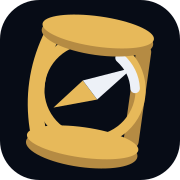
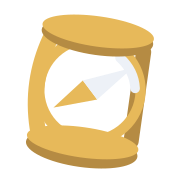
Update Site source

diff --git a/public/brand/icons.html b/public/brand/icons.html
@@ -1,11 +1,11 @@
 <!doctype html>
-<html lang="fr"><head><meta charset="utf-8"><meta name="viewport" content="width=device-width, initial-scale=1"><meta name="theme-color" content="#0b1120"><link rel="icon" href="/favicon.svg?v=4" type="image/svg+xml"><title>Grand Line — Les emblèmes du wiki</title>
+<html lang="fr"><head><meta charset="utf-8"><meta name="viewport" content="width=device-width, initial-scale=1"><meta name="theme-color" content="#0b1120"><link rel="icon" href="/favicon.svg?v=5" type="image/svg+xml"><title>Grand Line — Les emblèmes du wiki</title>
 <style>
 :root{color-scheme:dark;font-family:"Segoe UI",sans-serif;--bg:#0b1120;--surface:#121c2d;--line:#2c3d57;--gold:#e7b95a;--text:#edf1f7;--muted:#a6b5cb}*{box-sizing:border-box}body{margin:0;background:var(--bg);color:var(--text)}a{color:inherit;text-decoration:none}a:focus-visible{outline:2px solid var(--gold);outline-offset:5px}main{max-width:1160px;margin:auto;padding:36px 32px 30px}header{display:flex;align-items:center;justify-content:space-between;gap:20px;margin-bottom:34px}.eyebrow{margin:0;color:var(--gold);font:10px Consolas,monospace;letter-spacing:.16em;text-transform:uppercase}.back{color:var(--muted);font-size:12px}.intro{display:flex;align-items:flex-end;justify-content:space-between;gap:32px;margin-bottom:28px}h1{margin:12px 0 0;font:500 clamp(34px,4vw,49px)/1.1 Georgia,serif;letter-spacing:-.035em}.intro p{max-width:360px;margin:0;color:var(--muted);font-size:13px;line-height:1.8}.grid{display:grid;grid-template-columns:repeat(4,minmax(0,1fr));gap:13px}.card{position:relative;display:grid;justify-items:center;gap:0;min-height:190px;padding:22px 14px 17px;border:1px solid var(--line);border-radius:13px;background:var(--surface);text-align:center}.card:hover{border-color:#8b7344}.art{width:74px;height:74px;object-fit:contain}.card h2{margin:14px 0 5px;font-size:13px;font-weight:600}.card p{margin:0;color:var(--muted);font-size:10px}.mini{position:absolute;top:13px;right:13px;display:grid;width:31px;height:31px;place-items:center;border:1px solid var(--line);border-radius:7px;background:#070c16}.mini img{width:23px;height:23px}.favicon{display:flex;align-items:center;justify-content:space-between;flex-wrap:wrap;gap:22px;margin-top:18px;padding:22px 26px;border:1px solid var(--line);border-radius:13px;background:var(--surface)}.favicon-copy{display:flex;align-items:center;gap:18px}.favicon-copy>img{width:55px;height:55px}.favicon h2{margin:0 0 6px;font:500 23px Georgia,serif}.favicon p{max-width:520px;margin:0;color:var(--muted);font-size:12px;line-height:1.7}.tab{display:flex;align-items:center;gap:9px;min-width:210px;padding:13px 16px;border:1px solid var(--line);border-radius:10px 10px 0 0;background:#070c16;color:var(--muted);font-size:11px}.tab img{width:16px;height:16px}.tab span:last-child{margin-left:auto;font-size:14px}.caption{margin-top:18px;color:var(--muted);font-size:11px;line-height:1.7}.caption a{color:var(--gold)}@media(max-width:800px){main{padding:28px 20px}.intro{align-items:flex-start;flex-direction:column;gap:18px}.grid{grid-template-columns:repeat(3,minmax(0,1fr))}.favicon{padding:20px}.tab{min-width:200px}}@media(max-width:520px){main{padding:24px 16px}.grid{grid-template-columns:repeat(2,minmax(0,1fr));gap:10px}.card{min-height:178px;padding:22px 10px 15px}.art{width:65px;height:65px}.card h2{font-size:12px}.card p{font-size:9px}.mini{top:9px;right:9px;width:27px;height:27px}.mini img{width:20px;height:20px}.favicon-copy{align-items:flex-start;gap:12px}.favicon-copy>img{width:44px;height:44px}}
 </style></head><body><main>
 <header><p class="eyebrow">Grand Line · Identité visuelle</p><a class="back" href="/">Retour au wiki ↗</a></header>
 <section class="intro"><div><p class="eyebrow">Les emblèmes du wiki</p><h1>Un symbole pour chaque escale.</h1></div><p>Douze illustrations assorties au Log Pose, en doré et blanc nacré. Elles accompagnent les rubriques dans le menu, les titres et les raccourcis.</p></section>
 <section class="grid" aria-label="Les douze icônes des rubriques"><a class="card" href="/#accueil"><span class="mini" aria-hidden="true"><img src="./icons/home.svg" alt=""></span><img class="art" src="./icons/home.svg" width="74" height="74" alt="Le chapeau de paille"><h2>Accueil</h2><p>Le chapeau de paille</p></a><a class="card" href="/#page/favorites"><span class="mini" aria-hidden="true"><img src="./icons/favorites.svg" alt=""></span><img class="art" src="./icons/favorites.svg" width="74" height="74" alt="Le médaillon étoilé"><h2>Mes favoris</h2><p>Le médaillon étoilé</p></a><a class="card" href="/#page/map"><span class="mini" aria-hidden="true"><img src="./icons/map.svg" alt=""></span><img class="art" src="./icons/map.svg" width="74" height="74" alt="La carte marine"><h2>Carte du monde</h2><p>La carte marine</p></a><a class="card" href="/#page/guide"><span class="mini" aria-hidden="true"><img src="./icons/guide.svg" alt=""></span><img class="art" src="./icons/guide.svg" width="74" height="74" alt="Le livre de bord"><h2>Épisodes & chapitres</h2><p>Le livre de bord</p></a><a class="card" href="/#page/crews"><span class="mini" aria-hidden="true"><img src="./icons/crews.svg" alt=""></span><img class="art" src="./icons/crews.svg" width="74" height="74" alt="Le pavillon pirate"><h2>Équipages</h2><p>Le pavillon pirate</p></a><a class="card" href="/#page/ships"><span class="mini" aria-hidden="true"><img src="./icons/ships.svg" alt=""></span><img class="art" src="./icons/ships.svg" width="74" height="74" alt="Le navire à voiles"><h2>Bateaux</h2><p>Le navire à voiles</p></a><a class="card" href="/#page/government"><span class="mini" aria-hidden="true"><img src="./icons/government.svg" alt=""></span><img class="art" src="./icons/government.svg" width="74" height="74" alt="La mouette et l’ancre"><h2>Marine & Gouvernement</h2><p>La mouette et l’ancre</p></a><a class="card" href="/#page/blades"><span class="mini" aria-hidden="true"><img src="./icons/blades.svg" alt=""></span><img class="art" src="./icons/blades.svg" width="74" height="74" alt="Les katanas croisés"><h2>Les lames</h2><p>Les katanas croisés</p></a><a class="card" href="/#page/poneglyphs"><span class="mini" aria-hidden="true"><img src="./icons/poneglyphs.svg" alt=""></span><img class="art" src="./icons/poneglyphs.svg" width="74" height="74" alt="La stèle gravée"><h2>Ponéglyphes</h2><p>La stèle gravée</p></a><a class="card" href="/#page/characters"><span class="mini" aria-hidden="true"><img src="./icons/characters.svg" alt=""></span><img class="art" src="./icons/characters.svg" width="74" height="74" alt="L’affiche de recherche"><h2>Personnages</h2><p>L’affiche de recherche</p></a><a class="card" href="/#page/fruits"><span class="mini" aria-hidden="true"><img src="./icons/fruits.svg" alt=""></span><img class="art" src="./icons/fruits.svg" width="74" height="74" alt="Le fruit à spirales"><h2>Fruits du Démon</h2><p>Le fruit à spirales</p></a><a class="card" href="/#page/sources"><span class="mini" aria-hidden="true"><img src="./icons/sources.svg" alt=""></span><img class="art" src="./icons/sources.svg" width="74" height="74" alt="La plume et le parchemin"><h2>Sources & données</h2><p>La plume et le parchemin</p></a></section>
-<section class="favicon" aria-label="Icône de l’onglet"><div class="favicon-copy"><img src="/favicon.svg?v=4" width="55" height="55" alt="Log Pose simplifié"><div><h2>Le cap, même dans l’onglet.</h2><p>Le Log Pose conserve sa silhouette et son aiguille claire, avec un dessin simplifié pour les petites tailles.</p></div></div><div class="tab" aria-label="Aperçu de l’onglet à taille réelle"><img src="/favicon.svg?v=4" width="16" height="16" alt=""><span>Grand Line — Wiki One Piece</span><span aria-hidden="true">×</span></div></section>
+<section class="favicon" aria-label="Icône de l’onglet"><div class="favicon-copy"><img src="/favicon.svg?v=5" width="55" height="55" alt="Log Pose simplifié"><div><h2>Le cap, même dans l’onglet.</h2><p>Le Log Pose conserve sa silhouette et son aiguille claire, avec un dessin simplifié pour les petites tailles.</p></div></div><div class="tab" aria-label="Aperçu de l’onglet à taille réelle"><img src="/favicon.svg?v=5" width="16" height="16" alt=""><span>Grand Line — Wiki One Piece</span><span aria-hidden="true">×</span></div></section>
 <p class="caption">Fonds transparents · Symboles intégrés au site · <a href="./log-pose.html">Retrouver le logo Grand Line →</a></p>
 </main></body></html>

diff --git a/app/layout.tsx b/app/layout.tsx
@@ -6,11 +6,11 @@ export const metadata: Metadata = {
   description: "Explore l’univers de One Piece à ton rythme, avec un wiki filtré par l’arc que tu as terminé.",
   icons: {
     icon: [
-      { url: "/favicon.ico", sizes: "any" },
-      { url: "/favicon-32.png", sizes: "32x32", type: "image/png" },
-      { url: "/favicon.svg?v=4", type: "image/svg+xml" },
+      { url: "/favicon.ico?v=5", sizes: "any" },
+      { url: "/favicon-32.png?v=5", sizes: "32x32", type: "image/png" },
+      { url: "/favicon.svg?v=5", type: "image/svg+xml" },
     ],
-    apple: [{ url: "/apple-touch-icon.png", sizes: "180x180", type: "image/png" }],
+    apple: [{ url: "/apple-touch-icon.png?v=5", sizes: "180x180", type: "image/png" }],
   },
 };
 
